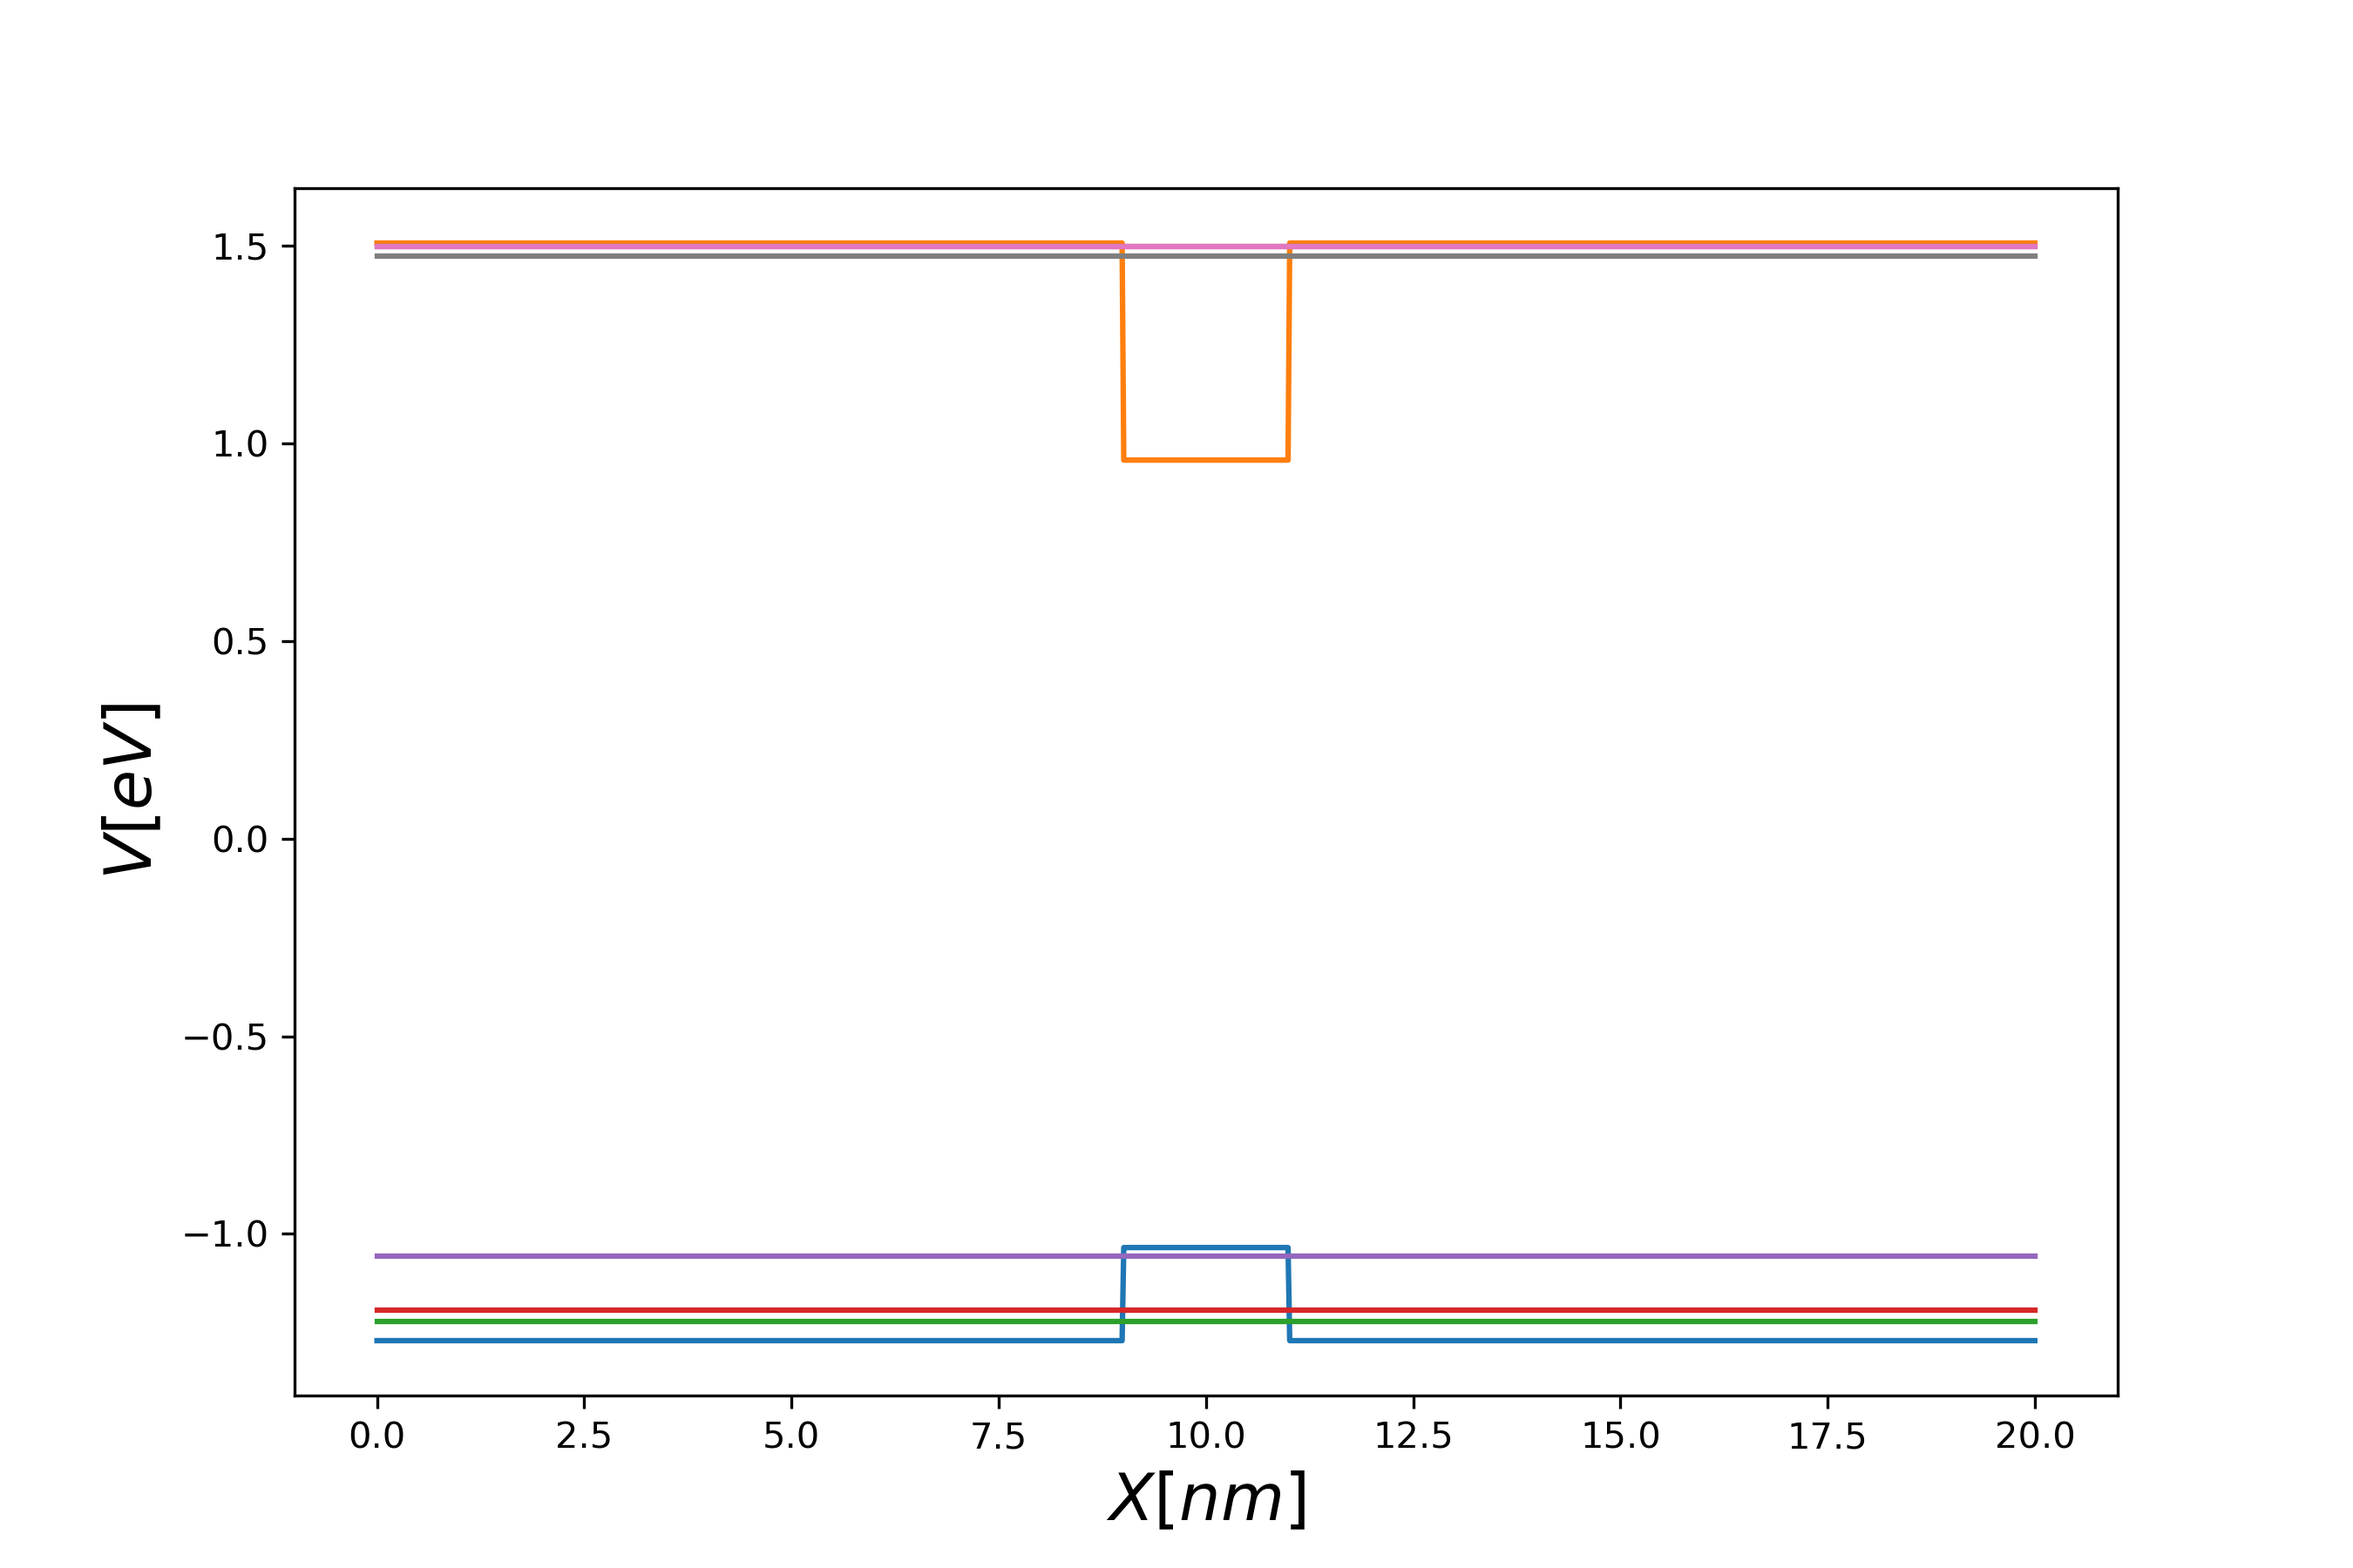
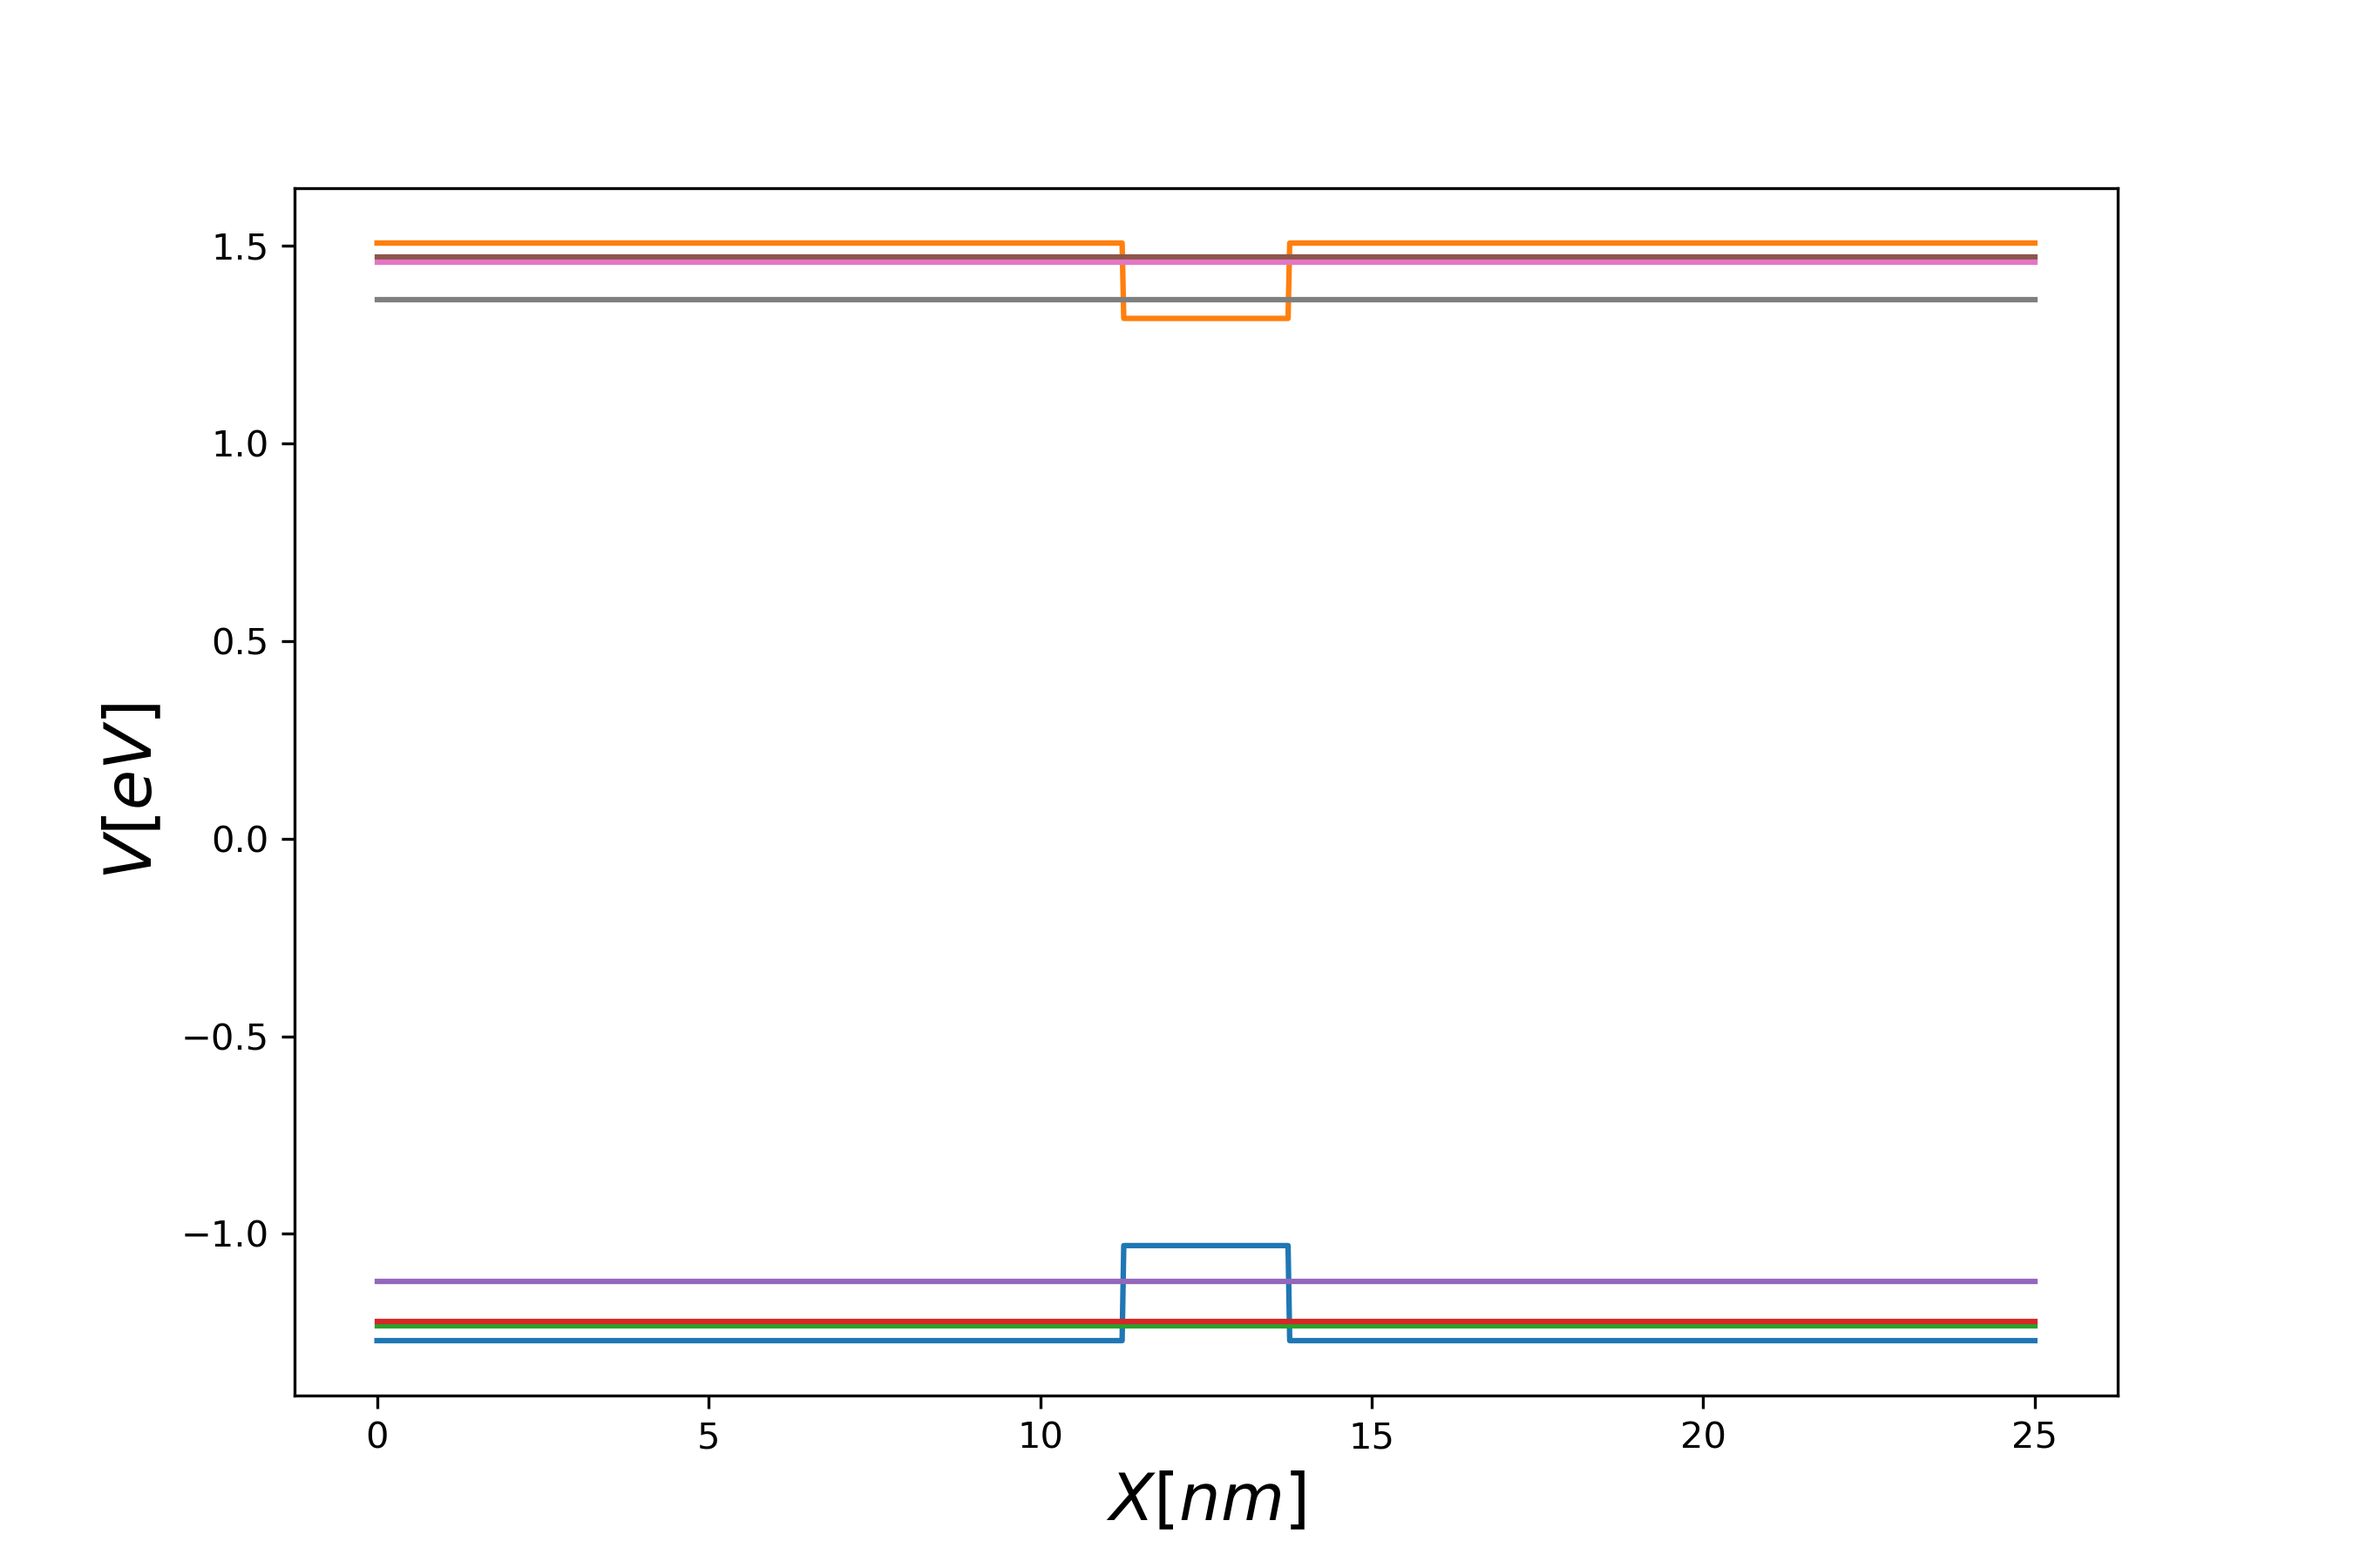
quantum well changes

diff --git a/src/task_7_8_9.py b/src/task_7_8_9.py
@@ -6,7 +6,7 @@ from utils import linear_int, binary_comps, strain
 
 n=1000    #liczba punktow
 
-d=2       #szerokosc studni  
+d=2.5       #szerokosc studni  
 ratio=1/10. #jaki stosunek zajmuje studnia w stosunku do calej struktury
 d=d/0.52917721*10
 #bariera GaP
@@ -18,15 +18,15 @@ print(Vdb)
 Vdb=Vdb/27.21
 
 eps_xy_gaas, eps_z_gaas, delta_Ec_gaas, delta_Ev_gaas, eps_xy_gasb, eps_z_gasb, delta_Ec_gasb, delta_Ev_gasb = strain(0.5)
-#studnia Ga P_0.5 Sb_0.5
-Ves=linear_int("VBO", "Ga", "P", "Sb", 0.5, params=binary_comps) + delta_Ev_gasb
+#studnia Ga As_0.5 P_0.5
+Ves=linear_int("VBO", "Ga", "As", "P", 0.5, params=binary_comps) + delta_Ev_gasb
 print(Ves)
 Ves=Ves/27.21
-Vds=linear_int("VBO", "Ga", "P", "Sb", 0.5, params=binary_comps) + linear_int("Eg", "Ga", "P", "Sb", 0.5, bow=0.19, params=binary_comps) + delta_Ec_gasb
+Vds=linear_int("VBO", "Ga", "As", "P", 0.5, params=binary_comps) + linear_int("Eg", "Ga", "As", "P", 0.5, bow=0.19, params=binary_comps) + delta_Ec_gasb
 print(Vds)
 Vds=Vds/27.21
 me=0.05     #masa elektronu
-md=0.5      #masa dziury
+md=0.05      #masa dziury
 
 a=0.
 b=d/ratio
